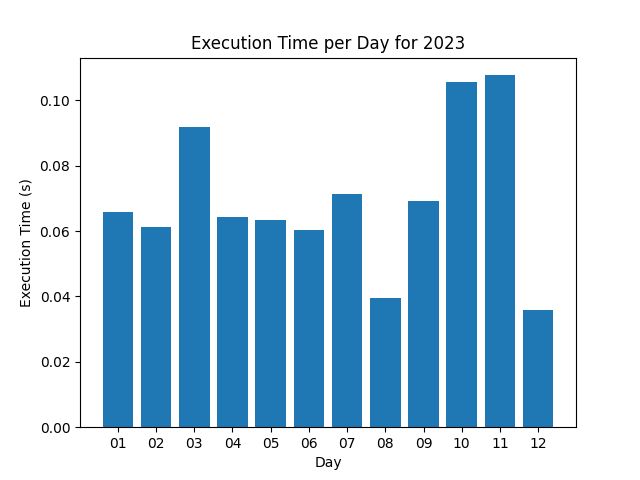
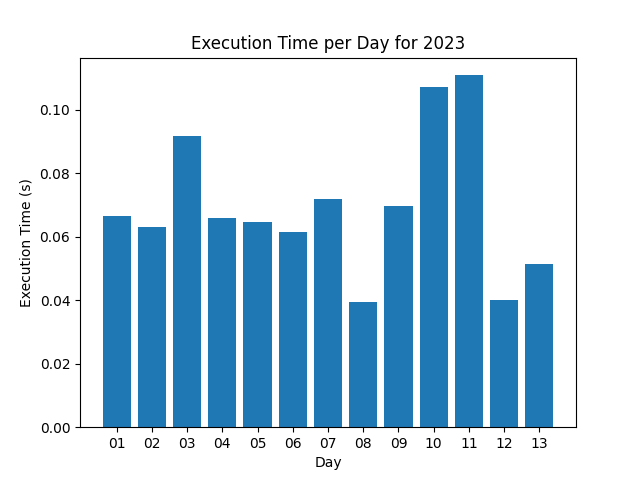
20231213 - Added solution for day_13

diff --git a/2023/day_13/solution.py b/2023/day_13/solution.py
@@ -1,0 +1,97 @@
+from pathlib import Path
+
+SCRIPT_PATH = Path(__file__).resolve().parent
+INPUT_PATH = Path(SCRIPT_PATH, "inputs/input.txt")
+# INPUT_PATH = Path(SCRIPT_PATH, "inputs/example1.txt")
+
+def parse_input(data):
+    # Split each map and then return that list
+    data_list = data.split("\n\n")
+    return data_list
+
+def split_horizontal_vertical(ash_map):
+    # Return a list of both rows and columns from the passed map
+    ash_map_split = ash_map.splitlines()
+    return ash_map_split, list(zip(*ash_map_split))
+
+def find_reflect_point(ash_map, part2=False):
+    # Run through each line of the passed map and the lines match spread out and find matching lines until you hit the end of the list
+    # If this is part2, introduce smudge function and return x value if a reflection is found
+    for idx, line in enumerate(ash_map):
+        try:  # Use a try except to avoid tracking length
+            smudge = False if not part2 else find_smudge(line, ash_map[idx + 1])  # Return a bool from find_smudge only if part2 is True
+            if ash_map[idx + 1] == line or smudge:  # If the line matches, or if it's part2 and smudge matches, spread out and check for matches
+                reflected = True
+                close_end = (idx + 1) if (len(ash_map) // 2) > idx else len(ash_map) - (idx + 1)  # Find the length to the closest end of the list
+                for i in range(1, close_end):
+                    if ash_map[idx + i + 1] != ash_map[idx - i]:  # If the lines don't match, reflection is False unless it's part2
+                        if part2 and not smudge and find_smudge(ash_map[idx + i + 1], ash_map[idx - i]):  # If it's part2, and we have not found a smudge yet, check for smudge
+                            smudge = True
+                            continue
+                        else:
+                            reflected = False
+                if part2:
+                    if reflected and smudge:  # Part2 only counts if a smudge has been found
+                        return (idx + 1)
+                elif reflected:
+                    return (idx + 1)
+        except IndexError as e:  # Continue on if you found an index error
+            pass
+    return
+
+def find_smudge(line1, line2):
+    # If there's only one character different between the lists, return True else False
+    return sum(line1[i] != line2[i] for i in range(len(line1))) == 1
+
+def part1(parsed_data):
+    # Go through each map, split the maps into horizontal and vertical, and process starting with horizontal first
+    # If reflected on the horizontal, multiply by 100 before adding to total
+    count = 1
+    total = 0
+    for ash_map in parsed_data:
+        row_map, column_map = split_horizontal_vertical(ash_map)
+        horizontal_reflect = find_reflect_point(row_map)
+        if horizontal_reflect is None:
+            vertical_reflect = find_reflect_point(column_map)
+            print(f"Map {count} had a vertical reflect point between column {vertical_reflect} and {vertical_reflect + 1}")
+            count += 1
+            total += vertical_reflect
+        else:
+            print(f"Map {count} had a horizontal reflect point between column {horizontal_reflect} and {horizontal_reflect + 1}")
+            count += 1
+            total += (horizontal_reflect * 100)
+
+    return total
+
+def part2(parsed_data):
+    # Go through each map, split the maps into horizontal and vertical, and process starting with horizontal first using the smudge mechanic
+    # If reflected on the horizontal, multiply by 100 before adding to total
+    count = 1
+    total = 0
+    for ash_map in parsed_data:
+        row_map, column_map = split_horizontal_vertical(ash_map)
+        horizontal_reflect = find_reflect_point(row_map, True)
+        if horizontal_reflect is None:
+            vertical_reflect = find_reflect_point(column_map, True)
+            print(f"Map {count} had a vertical reflect point between column {vertical_reflect} and {vertical_reflect + 1}")
+            count += 1
+            total += vertical_reflect
+        else:
+            print(f"Map {count} had a horizontal reflect point between column {horizontal_reflect} and {horizontal_reflect + 1}")
+            count += 1
+            total += (horizontal_reflect * 100)
+    return total
+
+if __name__ == "__main__":
+    with open(INPUT_PATH , "r") as f:
+        parsed_data = parse_input(f.read())
+
+    print("--- PART 1 ---")
+    answer1 = part1(parsed_data)
+    
+    print("\n--- PART 2 ---")
+    answer2 = part2(parsed_data)
+
+    print("\n--- ANSWERS ---")
+    print(f"PART1 - The summarized notes come out to {answer1}")
+    print(f"PART2 - The summarized smudges notes come out to {answer2}")
